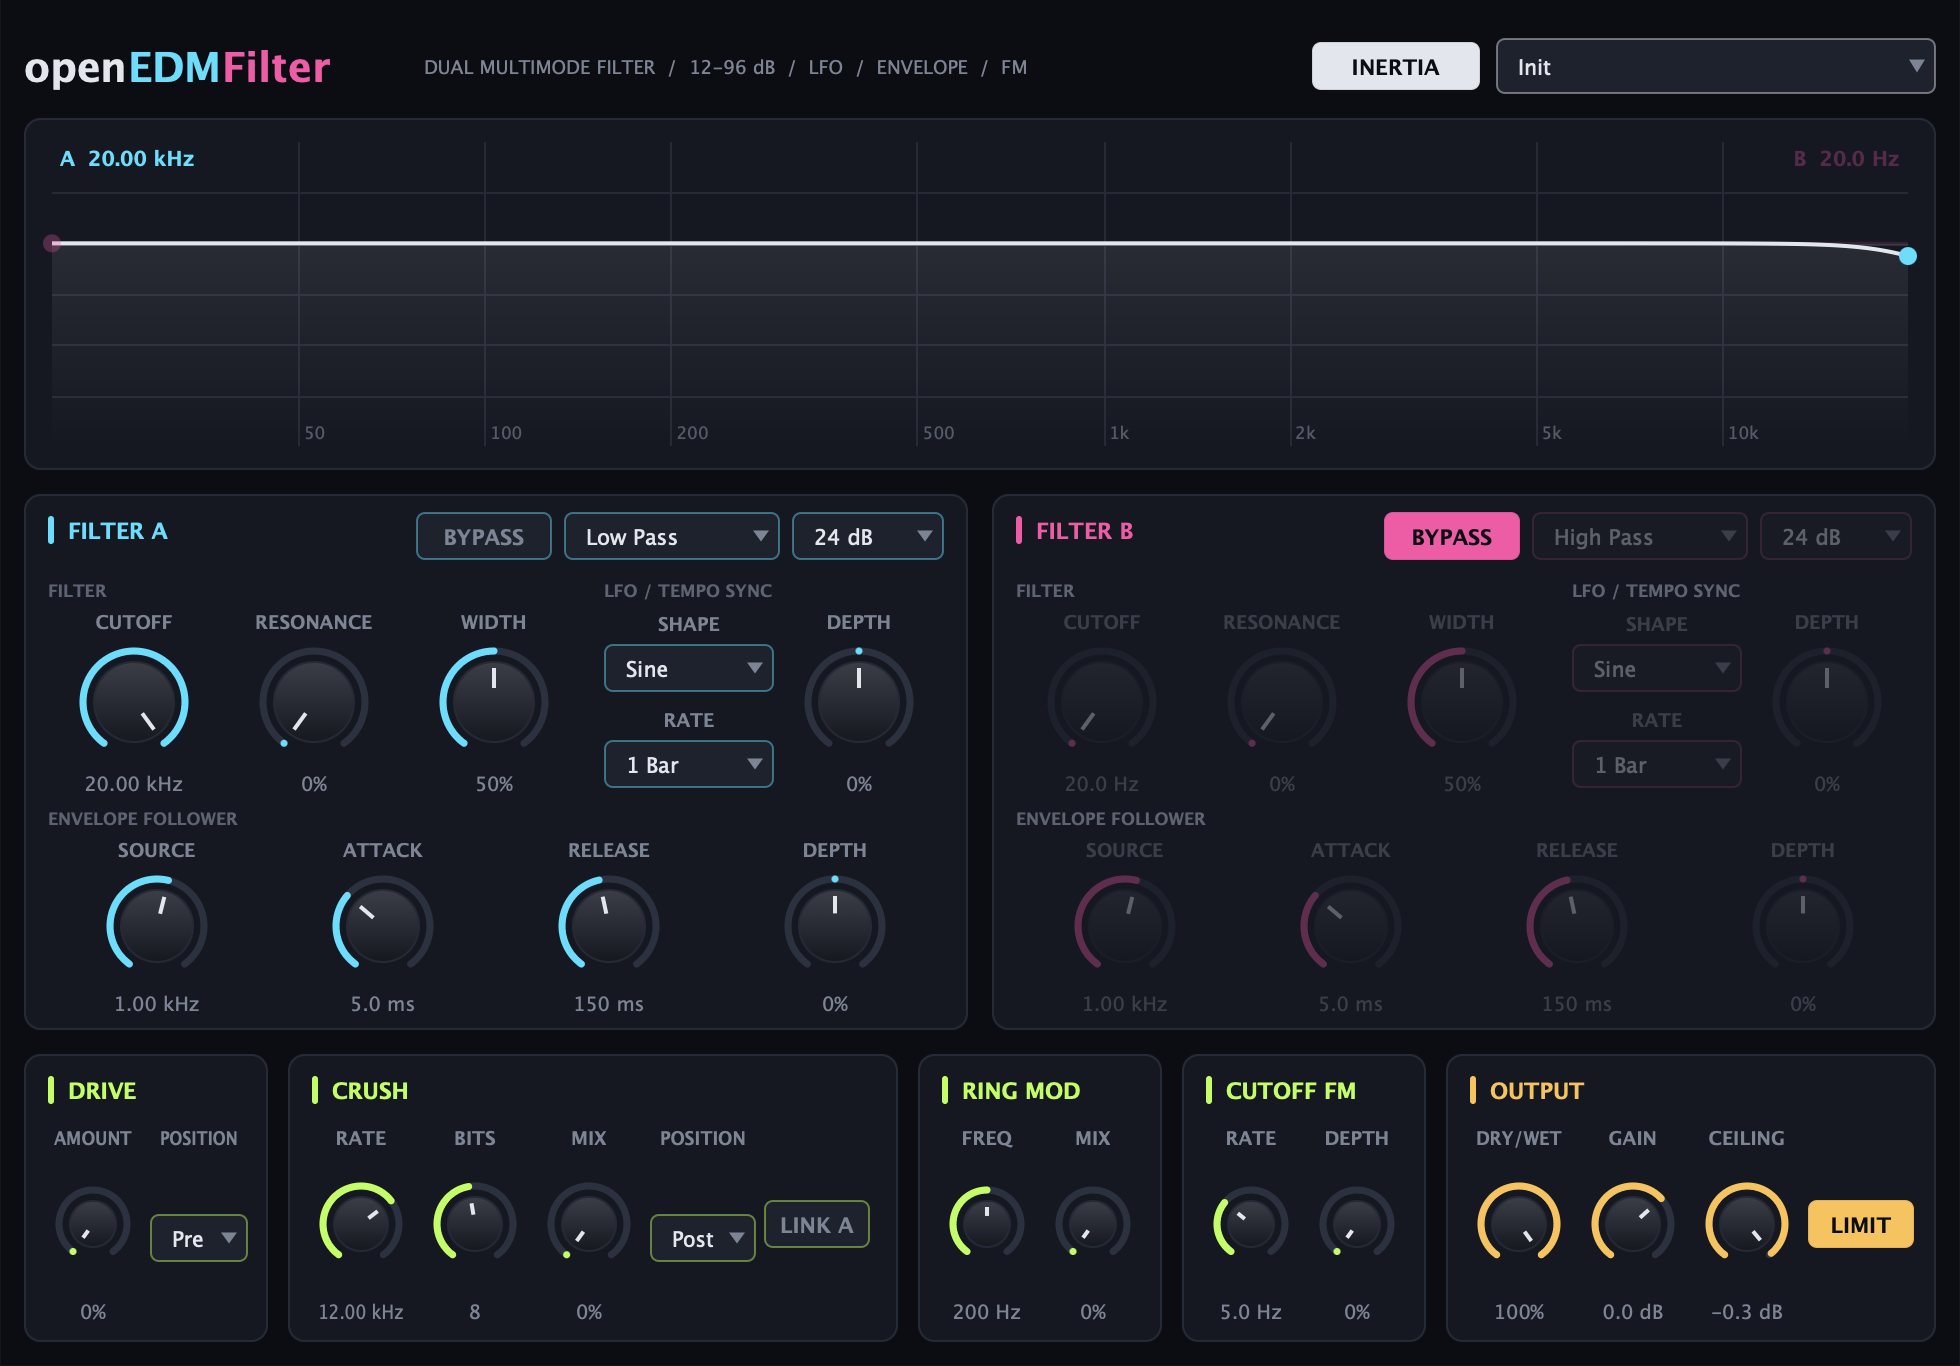
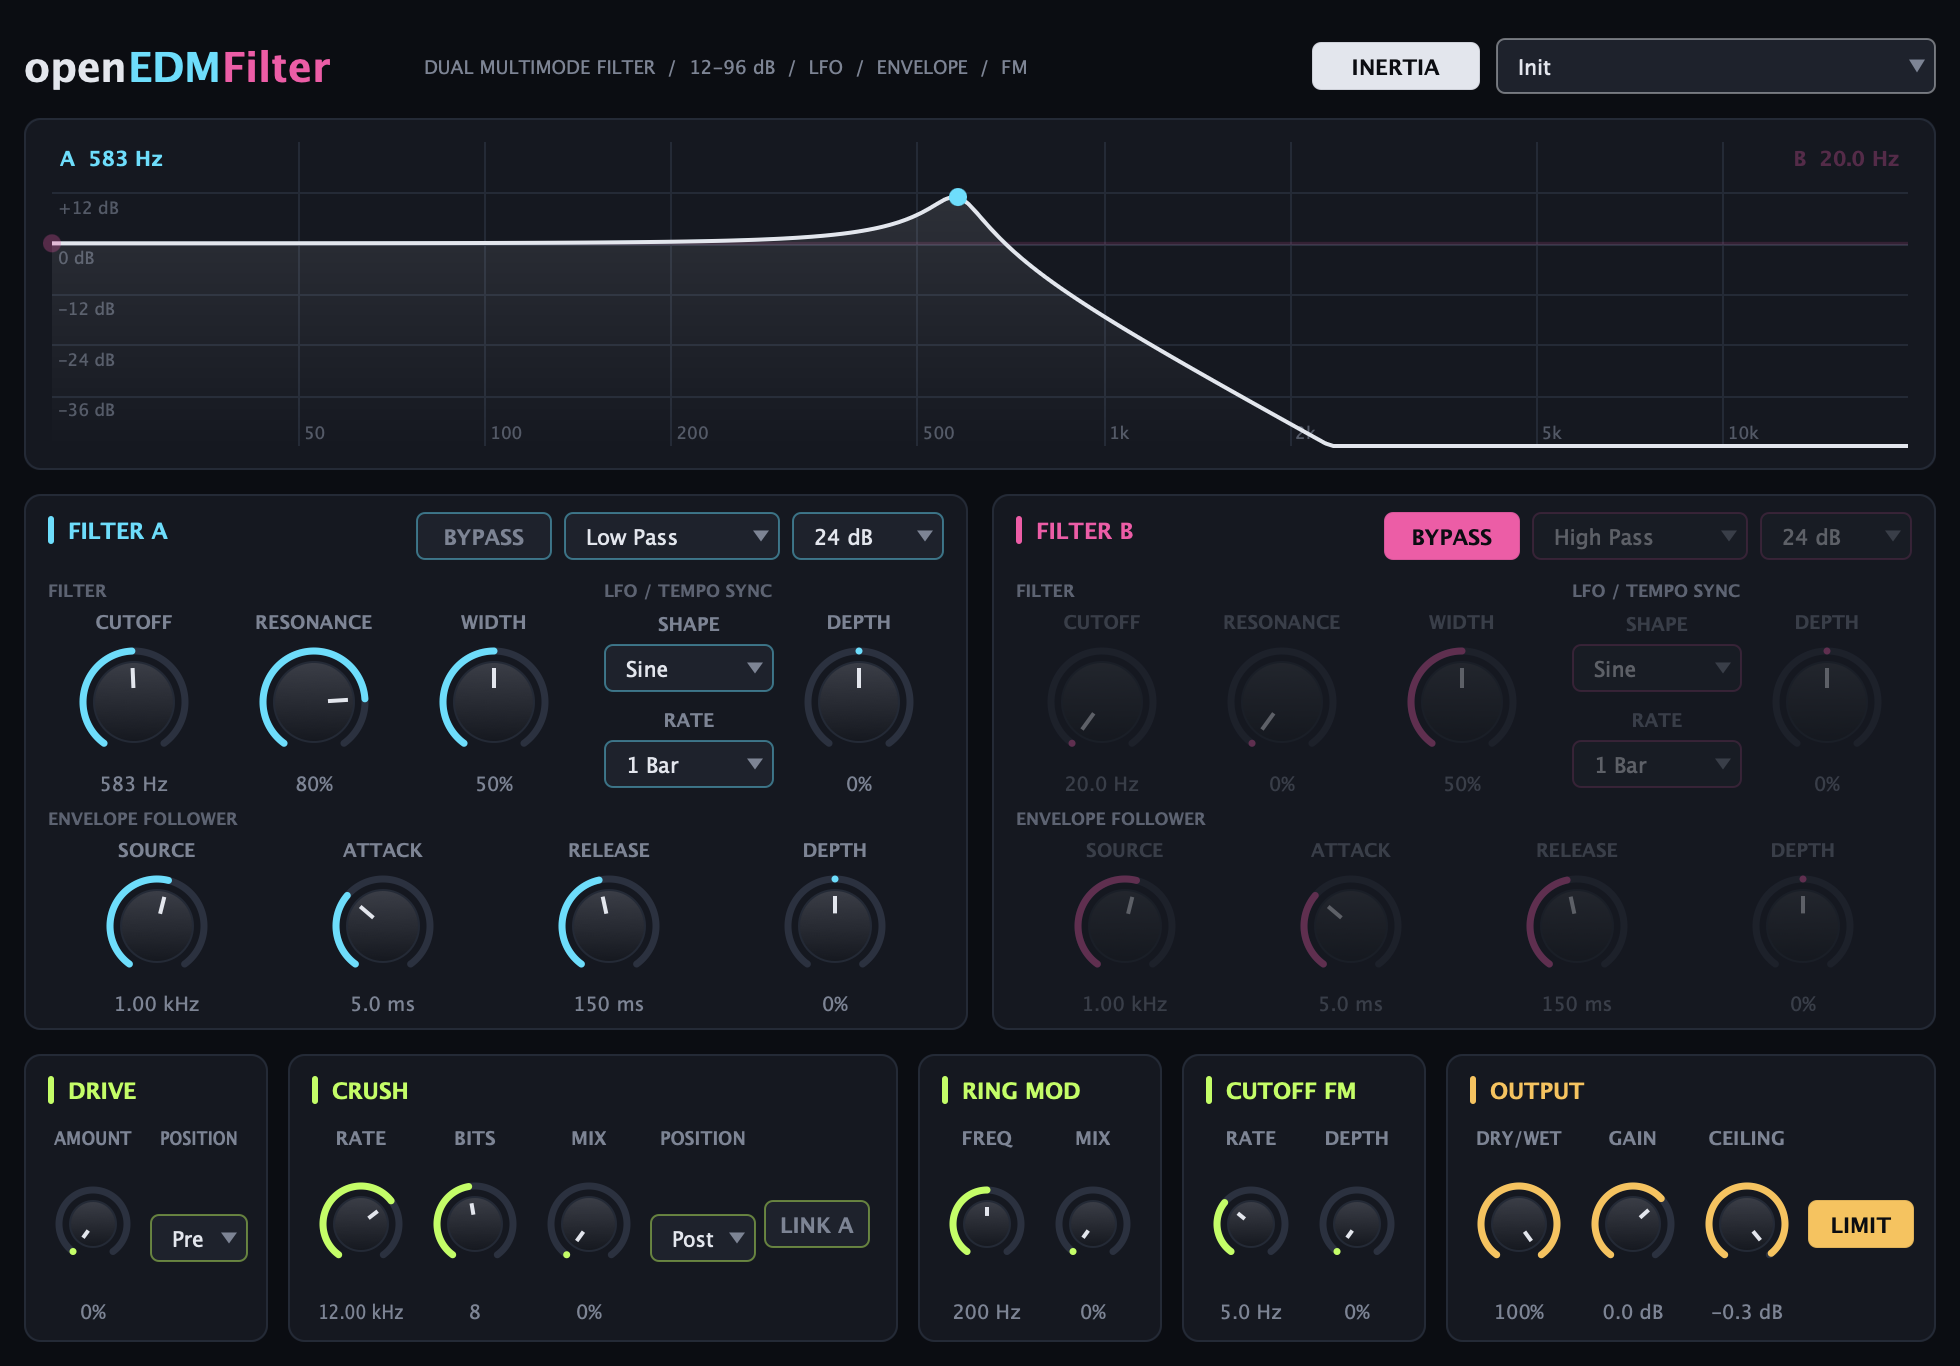
docs: describe oversampling, latency, the limiter and graph dragging

diff --git a/README.md b/README.md
@@ -14,10 +14,11 @@ A dual multimode filter plugin for EDM production. It covers the feature set of 
 - Drive. tanh saturation, before or after the filters.
 - Crush. A sample-rate reducer and bit crusher, before or after the filters. LINK A makes the crush rate follow filter A's cutoff modulation.
 - Ring modulator with frequency and mix controls.
-- Output section. Dry/wet, gain, and a stereo-linked peak limiter with a ceiling.
+- Output section. Dry/wet, gain, and a stereo-linked lookahead peak limiter with a ceiling.
 - Filter inertia. This smooths cutoff moves on 48 and 96 dB slopes to stop clicks. Turn it off for faster, harder gating.
 - 18 factory presets, available from the preset menu and as host programs.
-- Live response display. It shows both curves and the combined curve, and follows the LFO, envelope and FM in real time.
+- Live response display. It shows both curves and the combined curve, and follows the LFO, envelope and FM in real time. Drag a band's marker to set its cutoff (left and right) and resonance (up and down).
+- 2x oversampling. Everything before the limiter runs at twice the host rate, so drive, ring mod and fast FM alias less. The plugin reports 110 samples of latency (47 for the oversampler, 63 for the limiter lookahead), so hosts compensate for it.
 - All parameters can be automated in the host.
 
 The original also ships VST2 and AAX. This build does not: Steinberg no longer licenses the VST2 SDK, and AAX needs Avid's SDK and signing.
